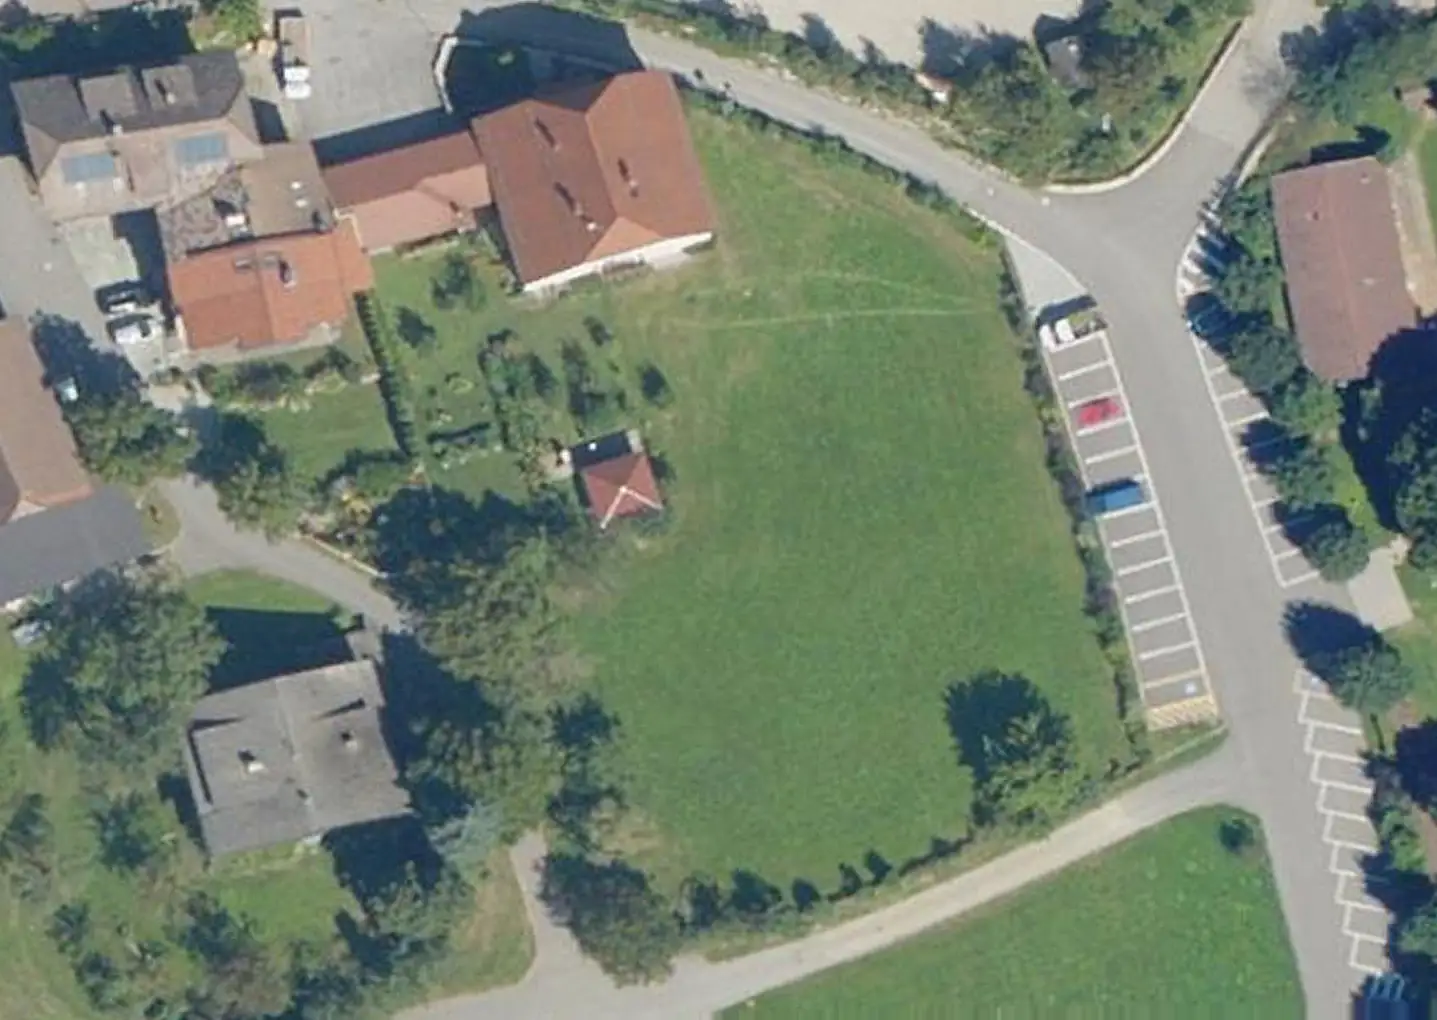
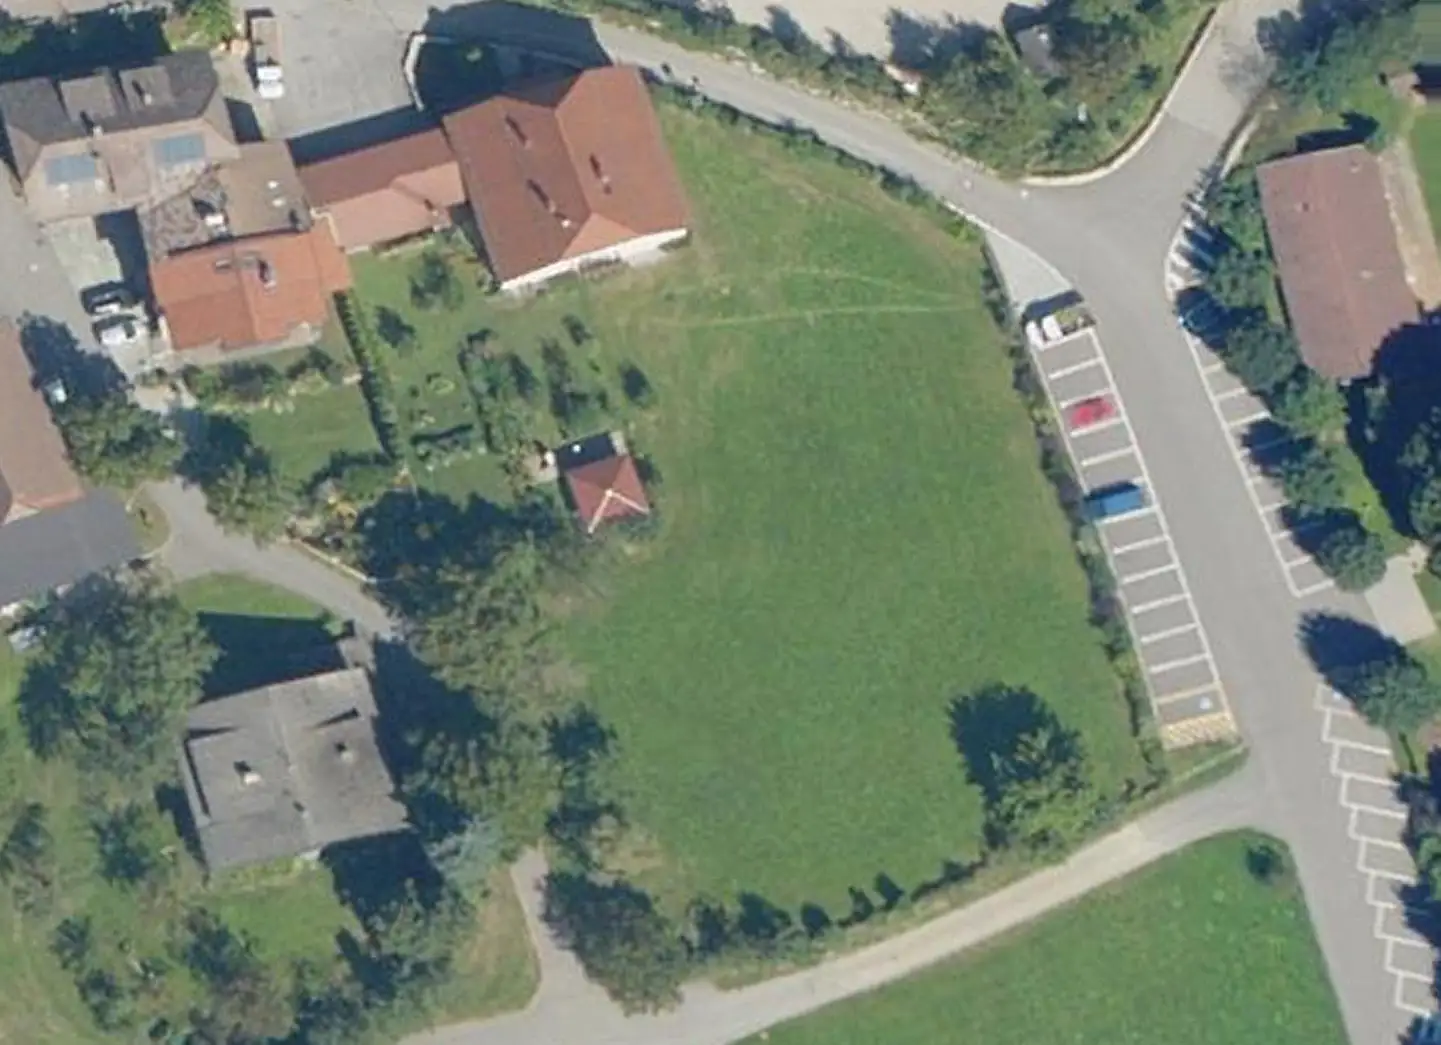
update

diff --git a/src/components/projects/project-sponsors.tsx b/src/components/projects/project-sponsors.tsx
@@ -3,13 +3,16 @@ import type { Project } from "@/types/project";
 import { SponsorIdentity } from "./sponsor-identity";
 
 const emptyTile =
-  "grid place-items-center rounded-[var(--radius-lg)] border border-dashed border-[var(--color-forest)]/30 px-4 text-center text-sm text-[var(--color-muted)]";
+  "grid place-items-center rounded-[var(--radius-lg)] border border-dashed border-[var(--color-forest)]/25 bg-white/40 px-4 text-center text-sm leading-6 text-[var(--color-muted)]";
 
 /**
- * Wer das Projekt finanziert, in zwei Rängen: links der Hauptinvestor als
- * große Kachel mit kräftiger Kopflinie, rechts die Mitinvestoren als kleinere,
- * ruhigere Kacheln. Größe und Linie tragen die Rangfolge, nicht nur das Label.
- * Fehlt ein Rang noch, bleibt die Stelle als gestrichelte Einladung sichtbar.
+ * Wer das Projekt trägt, im Raster der übrigen Abschnitte (Überschrift,
+ * Haarlinie, Spalten mit senkrechten Trennern wie bei „Ökologische Wirkung“):
+ * links der Projektträger, dann der Hauptinvestor als große Kachel mit
+ * Kopflinie, rechts die Mitinvestoren als kleinere Kacheln. Größe und Linie
+ * tragen die Rangfolge. Fehlt ein Rang noch, bleibt die Stelle als
+ * gestrichelte Einladung sichtbar. Öffentliche Unterstützung (`supportedBy`)
+ * steht beim Träger, nie als Investor.
  */
 export function ProjectSponsors({
   project,
@@ -17,8 +20,10 @@ export function ProjectSponsors({
 }: {
   project: Project;
   copy: {
-    sponsorsEyebrow: string;
-    sponsorsTitle: string;
+    title: string;
+    intro: string;
+    organization: string;
+    supportedBy: string;
     mainSponsor: string;
     coSponsors: string;
     sponsorOpen: string;
@@ -31,49 +36,62 @@ export function ProjectSponsors({
   const others = project.otherSponsors ?? [];
 
   return (
-    <section className="mt-16" aria-labelledby="project-sponsors-title">
-      <Label size="section">{copy.sponsorsEyebrow}</Label>
-      <h2
-        id="project-sponsors-title"
-        className="mt-2 font-display text-[length:var(--text-headline)] leading-[var(--leading-headline)]"
-      >
-        {copy.sponsorsTitle}
-      </h2>
+    <section className="mt-20" aria-labelledby="project-backers-title">
+      <div className="max-w-2xl">
+        <h2
+          id="project-backers-title"
+          className="font-display text-[length:var(--text-headline)] leading-[var(--leading-headline)]"
+        >
+          {copy.title}
+        </h2>
+        <p className="mt-3 text-sm leading-6 text-[var(--color-muted)]">{copy.intro}</p>
+      </div>
 
-      <div className="mt-8 grid gap-8 lg:grid-cols-[minmax(0,5fr)_minmax(0,7fr)] lg:gap-10">
-        <div>
+      <div className="mt-8 grid gap-8 border-t border-[var(--color-line)] pt-8 sm:mt-10 lg:grid-cols-[minmax(0,3fr)_minmax(0,4fr)_minmax(0,5fr)] lg:gap-0">
+        <div className="lg:pr-10">
+          <Label size="block" tone="muted">{copy.organization}</Label>
+          <p className="mt-3 text-[length:var(--text-body)] font-semibold text-[var(--color-ink)]">{project.organization}</p>
+          <p className="mt-1 text-sm leading-6 text-[var(--color-muted)]">
+            {project.organizationAddress ?? project.municipality}
+          </p>
+          {project.supportedBy ? (
+            <p className="mt-4 border-t border-[var(--color-line)] pt-4 text-sm leading-6 text-[var(--color-muted)]">
+              {copy.supportedBy}: <span className="font-semibold text-[var(--color-ink)]">{project.supportedBy}</span>
+            </p>
+          ) : null}
+        </div>
+
+        <div className="lg:border-l lg:border-[var(--color-line)] lg:px-10">
           <Label size="block">
             {copy.mainSponsor}
             {main?.isPlaceholder ? " · Demo" : ""}
           </Label>
           {main ? (
-            <div className="mt-3 flex min-h-52 flex-col justify-center gap-4 rounded-[var(--radius-lg)] border border-[var(--color-line)] border-t-[3px] border-t-[var(--color-forest)] bg-white p-8">
+            <div className="mt-3 flex min-h-40 flex-col justify-center gap-4 rounded-[var(--radius-lg)] border border-[var(--color-line)] border-t-[3px] border-t-[var(--color-forest)] bg-white p-6">
               <SponsorIdentity sponsor={main} size="featured" linked copy={copy} />
               {main.contribution ? (
-                <p className="max-w-[44ch] text-sm leading-6 text-[var(--color-muted)]">{main.contribution}</p>
+                <p className="text-sm leading-6 text-[var(--color-muted)]">{main.contribution}</p>
               ) : null}
             </div>
           ) : (
-            <p className={`${emptyTile} mt-3 min-h-52 border-t-[3px] border-t-[var(--color-forest)]/50`}>{copy.sponsorOpen}</p>
+            <p className={`${emptyTile} mt-3 min-h-40 border-t-[3px] border-t-[var(--color-forest)]/60`}>{copy.sponsorOpen}</p>
           )}
         </div>
 
-        <div>
-          <Label size="block" tone="muted">
-            {copy.coSponsors}
-          </Label>
-          <ul className="mt-3 grid grid-cols-2 gap-3 sm:grid-cols-3">
+        <div className="lg:border-l lg:border-[var(--color-line)] lg:pl-10">
+          <Label size="block" tone="muted">{copy.coSponsors}</Label>
+          <ul className="mt-3 grid grid-cols-3 gap-3">
             {others.length > 0
               ? others.map((sponsor) => (
                   <li
                     key={sponsor.name}
-                    className="grid min-h-24 place-items-center rounded-[var(--radius-lg)] border border-[var(--color-line)] bg-white/60 p-4 text-center"
+                    className="grid min-h-20 place-items-center rounded-[var(--radius-lg)] border border-[var(--color-line)] bg-white p-3 text-center"
                   >
                     <SponsorIdentity sponsor={sponsor} linked copy={copy} />
                   </li>
                 ))
               : [0, 1, 2].map((slot) => (
-                  <li key={slot} className={`${emptyTile} min-h-24`}>
+                  <li key={slot} className={`${emptyTile} min-h-20`}>
                     {copy.sponsorOpenShort}
                   </li>
                 ))}

diff --git a/src/components/projects/project-detail.tsx b/src/components/projects/project-detail.tsx
@@ -117,7 +117,7 @@ export function ProjectDetail({ project, otherProjects, locale }: ProjectDetailP
                 }}
                 aspectClassName={
                   project.slug === "widumwiese-kiens"
-                    ? "aspect-[1437/1020]"
+                    ? "aspect-[1441/1045]"
                     : project.slug === "millander-au-erweiterung"
                       ? "aspect-[1491/1055]"
                       : "aspect-[4/3] sm:aspect-[1491/1055]"
@@ -313,36 +313,13 @@ export function ProjectDetail({ project, otherProjects, locale }: ProjectDetailP
             </section>
           )}
 
-          <section className="mt-20">
-            <Surface level="sheet" tone="paper" framed={false} className="h-fit sm:p-8">
-              <div className="flex items-center gap-2 font-bold text-[var(--color-forest)]">
-                <ShieldCheck className="size-5" aria-hidden />
-                <h2>{copy.transparency}</h2>
-              </div>
-              <p className="mt-4 text-base leading-7 text-[var(--color-ink)]">
-                <strong>{project.organization}</strong>
-                {project.organizationAddress ? (
-                  <span className="mt-1 block text-sm text-[var(--color-muted)]">{project.organizationAddress}</span>
-                ) : <> · {project.municipality}</>}
-              </p>
-              {/* Öffentliche Unterstützung gilt je Projekt, nicht für die Plattform:
-                  deshalb beim Träger dieses Projekts, nicht am Seitenende, wo sie
-                  wie ein Vermerk für die ganze Seite wirkte. Kein Hauptinvestor,
-                  keine Kachel. */}
-              {project.supportedBy && (
-                <p className="mt-4 border-t border-[var(--color-line)] pt-4 text-sm text-[var(--color-muted)]">
-                  {copy.supportedBy}: <span className="font-semibold text-[var(--color-ink)]">{project.supportedBy}</span>
-                </p>
-              )}
-              <p className="mt-3 max-w-[58ch] text-sm leading-6 text-[var(--color-muted)]">{copy.transparencyCopy}</p>
-            </Surface>
-          </section>
-
           <ProjectSponsors
             project={project}
             copy={{
-              sponsorsEyebrow: copy.sponsorsEyebrow,
-              sponsorsTitle: copy.sponsorsTitle,
+              title: copy.backersTitle,
+              intro: copy.transparencyCopy,
+              organization: copy.organization,
+              supportedBy: copy.supportedBy,
               mainSponsor: copy.mainSponsor,
               coSponsors: copy.coSponsors,
               sponsorOpen: copy.sponsorOpen,

diff --git a/src/components/projects/project-gallery.tsx b/src/components/projects/project-gallery.tsx
@@ -1,6 +1,7 @@
 "use client";
 
 import Image from "next/image";
+import { projectImageVariant } from "@/lib/image-variants";
 import { useId, useRef, useState } from "react";
 import { ChevronLeft, ChevronRight } from "lucide-react";
 import type { Project } from "@/types/project";
@@ -67,7 +68,7 @@ export function ProjectGallery({ images, labels }: ProjectGalleryProps) {
           <div className="mt-5 flex gap-3 overflow-x-auto p-1">
             {images.map((image, imageIndex) => (
               <button key={image.src} type="button" onClick={() => setIndex(imageIndex)} aria-label={`${labels.image} ${imageIndex + 1}: ${image.alt}`} aria-pressed={imageIndex === index} aria-controls={slideId} className={`relative h-16 w-24 shrink-0 overflow-hidden rounded-[var(--radius-sm)] border-2 transition ${imageIndex === index ? "border-[var(--color-forest)]" : "border-transparent opacity-60 hover:opacity-100"} ${focusRing}`}>
-                <Image src={withBasePath(image.src)} alt="" fill sizes="96px" className="object-cover" />
+                <Image src={withBasePath(projectImageVariant(image.src, "xs"))} alt="" fill sizes="96px" className="object-cover" />
               </button>
             ))}
           </div>

diff --git a/src/features/house-tour/components/tour-results.tsx b/src/features/house-tour/components/tour-results.tsx
@@ -1,6 +1,7 @@
 "use client";
 
 import { useEffect, useMemo, useRef, useState } from "react";
+import { projectImageVariant } from "@/lib/image-variants";
 import Link from "@/components/ui/site-link";
 import { ArrowRight, Bookmark, BookmarkCheck, BookOpen, ChevronRight, Home, Plus } from "lucide-react";
 import { animate, motion, useReducedMotion } from "framer-motion";
@@ -511,7 +512,7 @@ export function TourResults({
                           )}
                         >
                           {/* eslint-disable-next-line @next/next/no-img-element */}
-                          <img src={withBasePath(project.image)} alt="" className="size-20 shrink-0 rounded-[var(--radius-md)] object-cover" />
+                          <img src={withBasePath(projectImageVariant(project.image, "xs"))} alt="" className="size-20 shrink-0 rounded-[var(--radius-md)] object-cover" />
                           <span className="flex min-w-0 flex-col justify-center">
                             <span className="text-sm font-semibold leading-5">{project.title}</span>
                             <span className="mt-0.5 text-xs text-[var(--color-muted)]">{project.municipality}</span>

diff --git a/src/config/translations/projects.ts b/src/config/translations/projects.ts
@@ -125,6 +125,7 @@ export const projectsCopy = {
       supportedBy: "Unterstützt von",
       supportingSponsors: "Weitere Förderpartner",
       coSponsors: "Mitinvestoren",
+      backersTitle: "Wer das Projekt trägt",
       sponsorOpen: "Hier könnte Ihr Logo oder Name stehen",
       sponsorOpenShort: "Ihr Logo",
       relatedEyebrow: "Weitere Projekte",
@@ -271,6 +272,7 @@ export const projectsCopy = {
       supportedBy: "Con il sostegno di",
       supportingSponsors: "Altri partner",
       coSponsors: "Co-investitori",
+      backersTitle: "Chi sostiene il progetto",
       sponsorOpen: "Qui potrebbe esserci il tuo logo o nome",
       sponsorOpenShort: "Il tuo logo",
       relatedEyebrow: "Altri progetti",
@@ -417,6 +419,7 @@ export const projectsCopy = {
       supportedBy: "Supported by",
       supportingSponsors: "Supporting partners",
       coSponsors: "Co-investors",
+      backersTitle: "Who backs this project",
       sponsorOpen: "Your logo or name could appear here",
       sponsorOpenShort: "Your logo",
       relatedEyebrow: "More projects",

diff --git a/src/components/projects/project-card-view.tsx b/src/components/projects/project-card-view.tsx
@@ -1,4 +1,5 @@
 import Image from "next/image";
+import { projectImageVariant } from "@/lib/image-variants";
 import { getTranslations } from "@/config/translations";
 import Link from "@/components/ui/site-link";
 import { MapPin } from "lucide-react";
@@ -50,7 +51,7 @@ export function ProjectCardView({
       <ProjectCategoryMarker categoryId={primaryCategory} />
       <div className="relative aspect-[16/10] overflow-hidden bg-[var(--color-sage)]/40">
         <Image
-          src={withBasePath(project.image)}
+          src={withBasePath(projectImageVariant(project.image, "sm"))}
           alt=""
           fill
           sizes="(min-width: 1024px) 33vw, (min-width: 640px) 50vw, 100vw"

diff --git a/src/components/home/achievements.tsx b/src/components/home/achievements.tsx
@@ -54,7 +54,7 @@ export function Achievements({ locale }: { locale: Locale }) {
           <figure data-home-reveal="scale" className={cn(hiddenWhenCollapsed, "w-full shrink-0 sm:max-w-md lg:w-[24rem]")}>
             <div className="relative aspect-[3/2] overflow-hidden rounded-[var(--radius-lg)] bg-[var(--color-sage)]">
               <Image
-                src={withBasePath("/projects/millander-au-zwergdommel.webp")}
+                src={withBasePath("/projects/millander-au-zwergdommel-sm.webp")}
                 alt={t.highlightAlt}
                 fill
                 sizes="(min-width: 1024px) 384px, (min-width: 640px) 448px, 100vw"

diff --git a/src/lib/image-variants.ts b/src/lib/image-variants.ts
@@ -1,0 +1,10 @@
+/**
+ * Kleinere Fassung eines Projektbilds aus /public/projects. GitHub Pages
+ * liefert Bilder ohne Optimierer in voller Größe aus; Karten und
+ * Vorschaubilder nehmen deshalb vorab verkleinerte Dateien
+ * (scripts/build-project-thumbnails.py): `sm` 800 px, `xs` 240 px breit.
+ * Andere Pfade (etwa der SVG-Platzhalter) bleiben unverändert.
+ */
+export function projectImageVariant(src: string, variant: "sm" | "xs") {
+  return /^\/projects\/[^/]+\.webp$/.test(src) ? src.replace(/\.webp$/, `-${variant}.webp`) : src;
+}

diff --git a/scripts/build-project-thumbnails.py b/scripts/build-project-thumbnails.py
@@ -1,0 +1,31 @@
+"""Verkleinerte Fassungen der Projektbilder für Karten und Vorschaubilder.
+
+GitHub Pages liefert Bilder ohne Next-Bildoptimierer aus (`unoptimized`), also
+immer in voller Größe. Karten (rund 400 px breit) und Vorschaubilder (unter
+100 px) bekommen deshalb eigene, kleine Dateien neben dem Original:
+
+  name.webp -> name-sm.webp (800 px breit) und name-xs.webp (240 px breit)
+
+Welche Datei die Seite nimmt, entscheidet `projectImageVariant` in
+`src/lib/image-variants.ts`. Nach neuen oder geänderten Projektbildern erneut
+ausführen:
+
+  python3 scripts/build-project-thumbnails.py
+"""
+from pathlib import Path
+from PIL import Image
+
+ROOT = Path(__file__).resolve().parent.parent / "public" / "projects"
+VARIANTS = {"sm": (800, 62), "xs": (240, 60)}
+
+for src in sorted(ROOT.glob("*.webp")):
+    if src.stem.endswith(("-sm", "-xs")):
+        continue
+    with Image.open(src) as im:
+        im = im.convert("RGB")
+        for suffix, (width, quality) in VARIANTS.items():
+            out = src.with_name(f"{src.stem}-{suffix}.webp")
+            w = min(width, im.width)
+            h = round(im.height * w / im.width)
+            im.resize((w, h), Image.LANCZOS).save(out, quality=quality, method=6)
+            print(f"{out.name}: {src.stat().st_size // 1024} KB -> {out.stat().st_size // 1024} KB")

diff --git a/public/projects/CREDITS.md b/public/projects/CREDITS.md
@@ -84,13 +84,15 @@ wide without cropping, stripped of metadata including GPS, and converted to
 WebP (quality 65, effort 6). The original is kept in `assets-source/projects/widumwiese-kiens/`.
 
 The before/after pair (8 October 2026) was supplied by the user as
-`map-2026-10-07T19_40_41.824Z.png` and `Luftbild eines blühenden Naturgartens.png`.
-The aerial photo was warped onto the visualisation's framing with a feature-based
-homography (house, roads and car park coincide), so the slider lines up. Both are
-1437 × 1020 px WebP (cropped to the area both images cover), quality 65, effort 6 (3.5 MB to 295 KB and 1.5 MB to 69 KB).
-Originals are in `assets-source/projects/widumwiese-kiens/`. Before publishing,
-clarify the aerial image's source and licence and the visualisation's author, and
-label the visualisation as such wherever it appears.
+`map-2026-10-07T19_40_41.824Z.png` (before) and, replacing a first draft,
+`Luftaufnahme eines Biodiversitätsgartens.png` (after; the first draft is kept as
+`luftbild-vision-original.png`). The aerial photo was warped onto the
+visualisation's framing with a feature-based homography (house, roads and car
+park coincide), so the slider lines up. Both are cropped to the area both images
+cover, 1441 × 1045 px WebP, quality 65, effort 6 (3.2 MB to 232 KB and 1.5 MB to
+69 KB). Originals are in `assets-source/projects/widumwiese-kiens/`. Before
+publishing, clarify the aerial image's source and licence and the visualisation's
+author, and label the visualisation as such wherever it appears.
 
 ## Web compression pass (7 October 2026)
 

diff --git a/assets-source/image-compression/README.md b/assets-source/image-compression/README.md
@@ -17,3 +17,13 @@ Stichproben der Startseite, Haustour, Millander-Au-Vision und Skizze wurden
 visuell geprüft. Originaldateien sind weiterhin über die bisherigen Quellen
 und die Git-Historie verfügbar; lokale Sicherungen dieser Bearbeitung liegen
 unter `/tmp/balance-compression/originals/`.
+
+## Verkleinerte Projektbilder (8. Oktober 2026)
+
+GitHub Pages liefert Bilder ohne Next-Optimierer in voller Größe aus. Karten,
+Galerie-Vorschaubilder, das Haustour-Ergebnis und die Kachel „Erfolge“ nehmen
+deshalb eigene kleine Fassungen: `name-sm.webp` (800 px, Qualität 62) und
+`name-xs.webp` (240 px, Qualität 60), erzeugt mit
+`scripts/build-project-thumbnails.py`, ausgewählt über
+`src/lib/image-variants.ts`. Nach neuen Projektbildern das Skript erneut
+ausführen.
